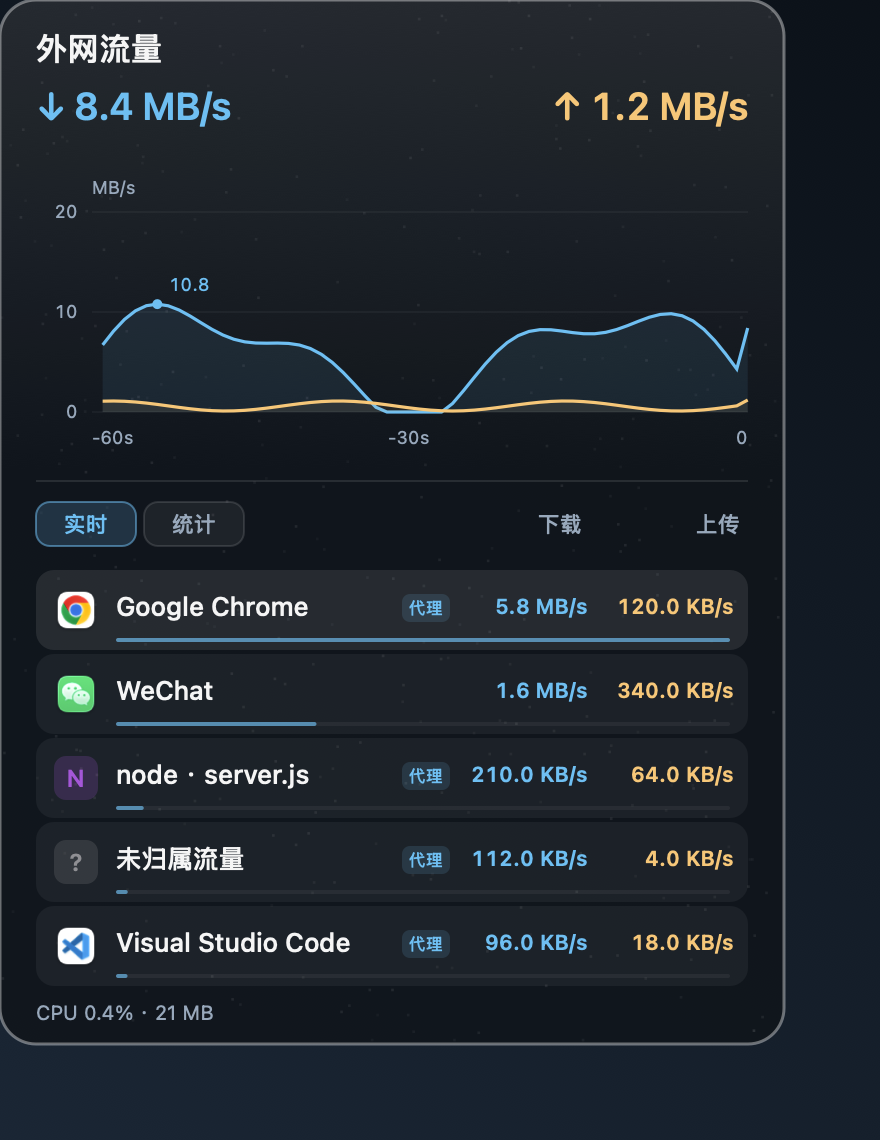
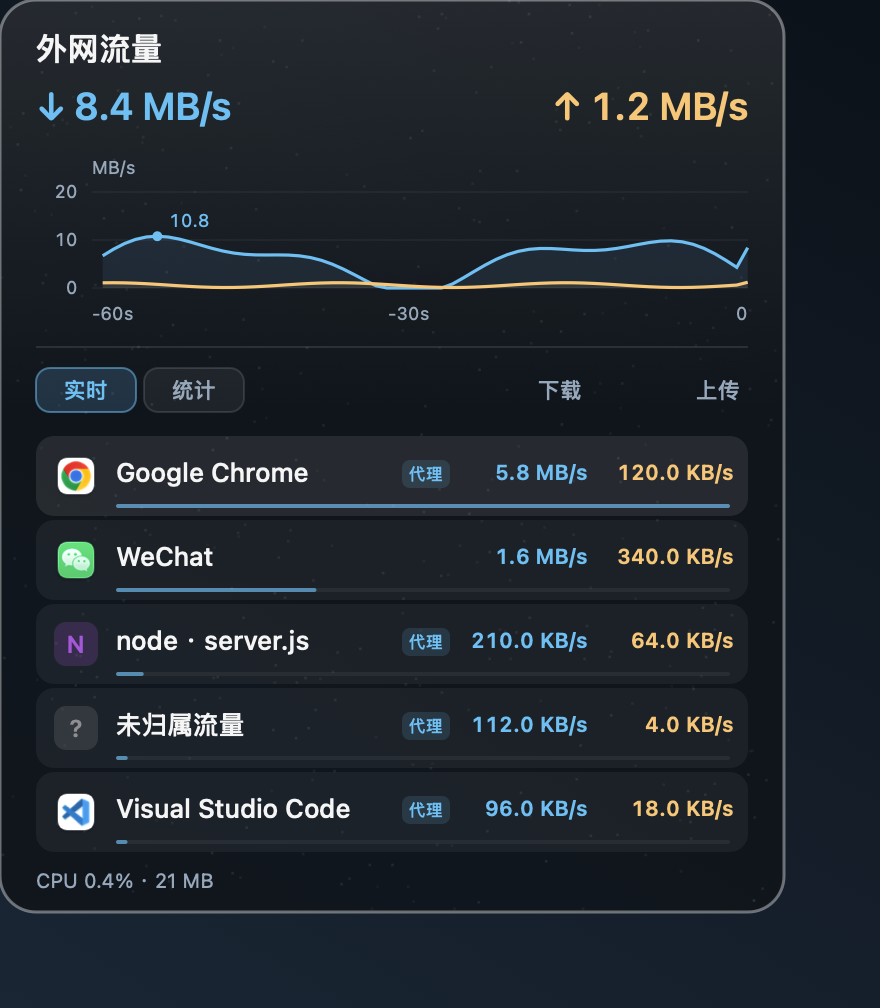
压缩曲线和统计页头部留白，发布1.2.8

diff --git a/main.swift b/main.swift
@@ -1065,7 +1065,10 @@ private enum Palette {
 private enum Metrics {
     static let ball: CGFloat = 140
     static let panelW: CGFloat = 392
-    static let panelH: CGFloat = 522
+    static let panelH: CGFloat = 456
+    static let tabsY: CGFloat = 184
+    static let rowsY: CGFloat = 218
+    static let rowsBottom: CGFloat = rowsY + 4 * 42 + 40
     static let pad: CGFloat = 18
 }
 
@@ -1654,7 +1657,7 @@ final class BallView: NSView {
         }
 
         NSColor(white: 1, alpha: 0.10).setFill()
-        NSRect(x: pad, y: 240, width: w - 2 * pad, height: 1).fill()
+        NSRect(x: pad, y: Metrics.tabsY - 11, width: w - 2 * pad, height: 1).fill()
 
         drawPanelTab("实时", rect: liveTabRect, selected: !showPeriodStatistics, font: fSmall)
         drawPanelTab("统计", rect: statisticsTabRect, selected: showPeriodStatistics, font: fSmall)
@@ -1674,16 +1677,16 @@ final class BallView: NSView {
             processHeading = "应用排行"
         }
         if showPeriodStatistics && periodStatistics.processes.count > 5 {
-            text(processHeading, x: pad + 112, y: 255, font: NSFont.systemFont(ofSize: 9), color: Palette.dim)
+            text(processHeading, x: pad + 112, y: Metrics.tabsY + 4, font: NSFont.systemFont(ofSize: 9), color: Palette.dim)
         }
         let downloadTitle = showPeriodStatistics && statisticsSort.column == .download
             ? "下载 \(statisticsSort.ascending ? "↑" : "↓")" : "下载"
         let uploadTitle = showPeriodStatistics && statisticsSort.column == .upload
             ? "上传 \(statisticsSort.ascending ? "↑" : "↓")" : "上传"
-        text(downloadTitle, x: w - pad - 145, y: 255, font: fSmall,
+        text(downloadTitle, x: w - pad - 145, y: Metrics.tabsY + 4, font: fSmall,
              color: showPeriodStatistics && statisticsSort.column == .download ? Palette.cyan : Palette.dim,
              align: .right, boxWidth: 62)
-        text(uploadTitle, x: w - pad - 72, y: 255, font: fSmall,
+        text(uploadTitle, x: w - pad - 72, y: Metrics.tabsY + 4, font: fSmall,
              color: showPeriodStatistics && statisticsSort.column == .upload ? Palette.amber : Palette.dim,
              align: .right, boxWidth: 68)
 
@@ -1692,22 +1695,22 @@ final class BallView: NSView {
                 byUpload: statisticsSort.column == .upload, ascending: statisticsSort.ascending)
             let top = Array(sorted.dropFirst(statisticsScrollOffset).prefix(5))
             if top.isEmpty {
-                text("这段期间还没有流量", x: pad, y: 310, font: fRow, color: Palette.dim)
+                text("这段期间还没有流量", x: pad, y: Metrics.rowsY + 25, font: fRow, color: Palette.dim)
             } else {
                 let maxTotal = max(top.map { Double($0.totalBytes) }.max() ?? 0, 1)
                 for (i, p) in top.enumerated() {
-                    drawPeriodRow(p, index: i, y: 285 + CGFloat(i) * 42, maxTotal: maxTotal,
+                    drawPeriodRow(p, index: i, y: Metrics.rowsY + CGFloat(i) * 42, maxTotal: maxTotal,
                                   fRow: fRow, fVal: fVal, w: w, pad: pad, sk: sk)
                 }
             }
         } else {
             let top = Array(rows.prefix(5))
             if top.isEmpty {
-                text(paused ? "采樣已暫停" : "正在採樣…", x: pad, y: 310, font: fRow, color: Palette.dim)
+                text(paused ? "采樣已暫停" : "正在採樣…", x: pad, y: Metrics.rowsY + 25, font: fRow, color: Palette.dim)
             } else {
                 let maxTotal = max(top[0].total, 1)
                 for (i, r) in top.enumerated() {
-                    drawRow(r, index: i, y: 285 + CGFloat(i) * 42, maxTotal: maxTotal,
+                    drawRow(r, index: i, y: Metrics.rowsY + CGFloat(i) * 42, maxTotal: maxTotal,
                             fRow: fRow, fVal: fVal, w: w, pad: pad, sk: sk)
                 }
             }
@@ -1717,10 +1720,10 @@ final class BallView: NSView {
         text(foot, x: pad, y: h - 22, font: fFoot, color: Palette.dim)
     }
 
-    private var liveTabRect: NSRect { NSRect(x: Metrics.pad, y: 251, width: 50, height: 22) }
-    private var statisticsTabRect: NSRect { NSRect(x: Metrics.pad + 54, y: 251, width: 50, height: 22) }
-    private var downloadSortRect: NSRect { NSRect(x: Metrics.panelW - Metrics.pad - 145, y: 251, width: 65, height: 22) }
-    private var uploadSortRect: NSRect { NSRect(x: Metrics.panelW - Metrics.pad - 72, y: 251, width: 68, height: 22) }
+    private var liveTabRect: NSRect { NSRect(x: Metrics.pad, y: Metrics.tabsY, width: 50, height: 22) }
+    private var statisticsTabRect: NSRect { NSRect(x: Metrics.pad + 54, y: Metrics.tabsY, width: 50, height: 22) }
+    private var downloadSortRect: NSRect { NSRect(x: Metrics.panelW - Metrics.pad - 145, y: Metrics.tabsY, width: 65, height: 22) }
+    private var uploadSortRect: NSRect { NSRect(x: Metrics.panelW - Metrics.pad - 72, y: Metrics.tabsY, width: 68, height: 22) }
     private var resetStatisticsRect: NSRect {
         NSRect(x: Metrics.panelW - Metrics.pad - 56, y: 78, width: 56, height: 22)
     }
@@ -1759,20 +1762,20 @@ final class BallView: NSView {
         text("重置", x: resetStatisticsRect.minX, y: resetStatisticsRect.minY + 4,
              font: small, color: Palette.text, align: .center, boxWidth: resetStatisticsRect.width)
 
-        text("↓ " + Fmt.bytes(periodStatistics.rxBytes), x: x, y: 130,
+        text("↓ " + Fmt.bytes(periodStatistics.rxBytes), x: x, y: 112,
              font: rate, color: Palette.cyan)
-        text("↑ " + Fmt.bytes(periodStatistics.txBytes), x: x, y: 130,
+        text("↑ " + Fmt.bytes(periodStatistics.txBytes), x: x, y: 112,
              font: rate, color: Palette.amber, align: .right, boxWidth: width)
         let elapsed = Date().timeIntervalSince(periodStatistics.since)
         text("统计时长 \(Fmt.duration(elapsed))",
-             x: x, y: 186, font: foot, color: Palette.dim)
+             x: x, y: 148, font: foot, color: Palette.dim)
     }
 
     private let panelIcons = PanelIconCache()
     var chartHoverX: CGFloat?
     private var chartTracking: NSTrackingArea?
     private var chartRect: NSRect {
-        NSRect(x: Metrics.pad + 28, y: 106, width: Metrics.panelW - Metrics.pad * 2 - 28, height: 100)
+        NSRect(x: Metrics.pad + 28, y: 96, width: Metrics.panelW - Metrics.pad * 2 - 28, height: 48)
     }
 
     /// 样例数据也保留时间语义，不影响真实采样与统计。
@@ -1925,7 +1928,7 @@ final class BallView: NSView {
             let label = axisLabel(value)
             let labelWidth = (label as NSString).size(withAttributes: [.font: font]).width
             text(label, x: min(r.maxX - labelWidth, max(r.minX, p.x + 6)),
-                 y: max(r.minY - 13, p.y - 16), font: font, color: color)
+                 y: max(r.minY + 2, p.y - 14), font: font, color: color)
         }
         if let x = chartHoverX, let sample = model.nearest(at: Double((x - r.minX) / r.width)) {
             let selectedX = point(sample, 0).x
@@ -1936,7 +1939,7 @@ final class BallView: NSView {
                 let p = point(sample, value)
                 color.setFill(); NSBezierPath(ovalIn: NSRect(x: p.x - 3, y: p.y - 3, width: 6, height: 6)).fill()
             }
-            let bubble = NSRect(x: min(r.maxX - 130, max(r.minX, selectedX - 140)), y: r.minY + 7, width: 130, height: 59)
+            let bubble = NSRect(x: min(r.maxX - 130, max(r.minX, selectedX - 140)), y: r.minY - 4, width: 130, height: 55)
             NSColor(srgbRed: 0.09, green: 0.12, blue: 0.15, alpha: 0.97).setFill()
             NSBezierPath(roundedRect: bubble, xRadius: 8, yRadius: 8).fill()
             let date = Calendar.current.dateComponents([.hour, .minute, .second], from: sample.at)
@@ -2084,7 +2087,7 @@ final class BallView: NSView {
         super.resetCursorRects()
         removeAllToolTips()
         guard expanded else { return }
-        addToolTip(NSRect(x: Metrics.pad, y: 285, width: Metrics.panelW - 2 * Metrics.pad, height: 208),
+        addToolTip(NSRect(x: Metrics.pad, y: Metrics.rowsY, width: Metrics.panelW - 2 * Metrics.pad, height: 208),
                        owner: self, userData: nil)
         addToolTip(NSRect(x: Metrics.pad, y: Metrics.panelH - 24, width: Metrics.panelW - 2 * Metrics.pad, height: 24),
                    owner: self, userData: nil)
@@ -2103,7 +2106,7 @@ final class BallView: NSView {
         if point.y >= Metrics.panelH - 24 {
             return "最近约30秒 CPU均值（100%=一个核心）：自身 \(Fmt.pct(selfCPU)) + 采集工具 \(Fmt.pct(nettopCPU))。\n内存仅为主程序；不含子进程或 WindowServer。\n明细间隔是CPU预算目标；受网速档位、扫描用时与调度影响，实际可能更久。明细速率为扫描区间平均值。\n网速\(intervalLabel)；明细目标\(detailIntervalLabel)。"
         }
-        let offset = point.y - 285
+        let offset = point.y - Metrics.rowsY
         guard offset >= 0 else { return "" }
         let index = Int(offset / 42)
         let withinRow = offset - CGFloat(index) * 42
@@ -2132,7 +2135,7 @@ final class BallView: NSView {
             return
         }
         let point = convert(event.locationInWindow, from: nil)
-        guard point.y >= 285 && point.y < 493 else {
+        guard point.y >= Metrics.rowsY && point.y < Metrics.rowsBottom else {
             statisticsScrollAccumulator.reset()
             super.scrollWheel(with: event)
             return
@@ -3333,6 +3336,8 @@ if argv.contains("--ease-test") {
 }
 
 if argv.contains("--stats-test") {
+    precondition(Metrics.rowsBottom < Metrics.panelH - 24, "列表不可覆盖底部信息")
+    precondition(Metrics.tabsY + 22 < Metrics.rowsY, "标签不可覆盖首行")
     let presentationFailures = PanelPresentationTests.run()
     precondition(presentationFailures.isEmpty, presentationFailures.joined(separator: "\n"))
     let columnFont = NSFont.monospacedDigitSystemFont(ofSize: 12.5, weight: .semibold)
@@ -3466,7 +3471,7 @@ if argv.contains("--stats-test") {
     tooltipView.rows = [Sampler.Row(name: "node · server.js", pid: 1, rx: 10, tx: 0,
                                     fullPath: "/Users/me/Project/server.js")]
     let liveTooltip = tooltipView.view(tooltipView, stringForToolTip: 0,
-                                       point: NSPoint(x: 60, y: 290), userData: nil)
+                                       point: NSPoint(x: 60, y: Metrics.rowsY + 5), userData: nil)
     precondition(liveTooltip == "完整路径：\n/Users/me/Project/server.js")
     tooltipView.showPeriodStatistics = true
     tooltipView.periodStatistics = Sampler.PeriodStatistics(
@@ -3474,7 +3479,7 @@ if argv.contains("--stats-test") {
         processes: [Sampler.ProcessTotal(name: "node · server.js", rxBytes: 10, txBytes: 0,
                                          viaProxy: false, fullPath: "/Users/me/Project/server.js")])
     let statisticsTooltip = tooltipView.view(tooltipView, stringForToolTip: 0,
-                                              point: NSPoint(x: 60, y: 290), userData: nil)
+                                              point: NSPoint(x: 60, y: Metrics.rowsY + 5), userData: nil)
     precondition(statisticsTooltip == "完整路径：\n/Users/me/Project/server.js")
 
     print("统计/身份自检通过：物理总量独立、连接归属与去重、API 故障/重启/重置基线、回环排除、应用合并、路径隐私、滚动与排序")
